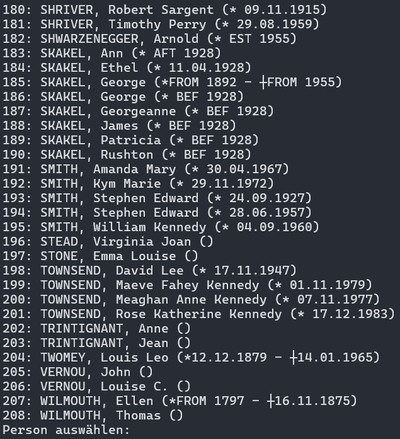
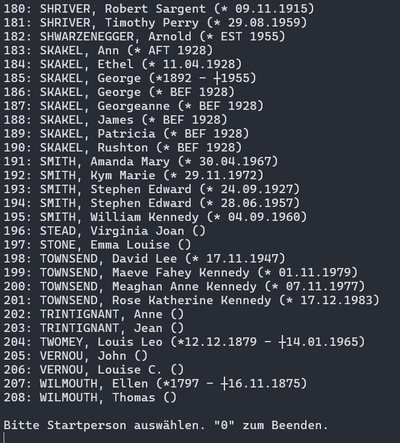
updated documentation.

diff --git a/README.en.md b/README.en.md
@@ -1,11 +1,18 @@
 # Introduction
 
+[![en](https://img.shields.io/badge/lang-en-red.svg)](README.en.md)
+[![de](https://img.shields.io/badge/lang-de-green.svg)](README.md)
+
+[![Licence](https://img.shields.io/github/license/LondonRain/KekuleHtml)](licence.txt)
+[![.NET](https://img.shields.io/badge/.NET-10.0-blueviolet)](https://dotnet.microsoft.com/en-us/download/dotnet/10.0)
+![Windows](https://img.shields.io/badge/Windows-10%2B-steelblue)
+[![Release](https://img.shields.io/github/v/release/LondonRain/KekuleHtml)](https://github.com/LondonRain/KekuleHtml/releases/latest)
+[![Last Commit](https://img.shields.io/github/last-commit/LondonRain/KekuleHtml)](https://github.com/LondonRain/KekuleHtml/commits/main)
+[![Downloads](https://img.shields.io/github/downloads/LondonRain/KekuleHtml/total)](https://github.com/LondonRain/KekuleHtml/releases/latest)
+
 <p align="center">
   <img src="img/KekuleHtmlBanner.png" />
 </p>
-
-[![en](https://img.shields.io/badge/lang-en-red.svg)](README.en.md)
-[![de](https://img.shields.io/badge/lang-de-green.svg)](README.md)
 
 1. [Description](#description)
 2. [Prerequisites](#prerequisites)
@@ -44,7 +51,21 @@ There is also a user interface. To use it, run `KekuleHtmlUi.exe`.
 
 ![User Interface](img/ui.png)
 
-You can select a GEDCOM file using “Browse...”. Alternatively, you can drag and drop the file (e.g., from Windows Explorer) onto the window to open it. Under “Select Starting Person...”, you can open a drop-down list to specify the starting person. Typing in the text field filters the drop-down list accordingly. You can use the checkbox to specify whether the file generated after clicking “Create HTML File” should open directly.
+You can select a GEDCOM file using “Browse...”. Alternatively, you can drag and drop the file (e.g., from Windows Explorer) onto the window to open it. Under “Select Starting Person...”, you can open a drop-down list to specify the starting person. Typing in the text field filters the drop-down list accordingly. Under “Generations” you can limit the output to a specified number of generations. You can use the checkbox to specify whether the file generated after clicking “Create HTML File” should open directly.
+
+### Parameters
+
+Both the console application and the application with a graphical user interface support the following command-line parameters.
+
+| Parameter (with example) | Description |
+| ------------------------ | ------------ |
+| kennedy.ged | A relative or absolute path to a GEDCOM file. This is then loaded directly in the user interface. However, it is usually more convenient to select the file yourself via the user interface. |
+| -maxGenerations 12 | Number of generations included in the output. 20 is the default value if this parameter is not set. The maximum is 63. |
+| -lang en | Forces the specified language. Currently, `de` (German) and `en` (English) are supported. If no language is specified via a parameter or if the language is unknown, the system language is used. |
+
+### Ahnenblatt
+
+For integration with the [Ahnenblatt](https://www.ahnenblatt.de/) software, see [here](AhnenblattPlugin/ReadmeAB.md).
 
 ## Features
 

diff --git a/README.md b/README.md
@@ -3,6 +3,13 @@
 [![en](https://img.shields.io/badge/lang-en-red.svg)](README.en.md)
 [![de](https://img.shields.io/badge/lang-de-green.svg)](README.md)
 
+[![Licence](https://img.shields.io/github/license/LondonRain/KekuleHtml)](licence.txt)
+[![.NET](https://img.shields.io/badge/.NET-10.0-blueviolet)](https://dotnet.microsoft.com/en-us/download/dotnet/10.0)
+![Windows](https://img.shields.io/badge/Windows-10%2B-steelblue)
+[![Release](https://img.shields.io/github/v/release/LondonRain/KekuleHtml)](https://github.com/LondonRain/KekuleHtml/releases/latest)
+[![Last Commit](https://img.shields.io/github/last-commit/LondonRain/KekuleHtml)](https://github.com/LondonRain/KekuleHtml/commits/main)
+[![Downloads](https://img.shields.io/github/downloads/LondonRain/KekuleHtml/total)](https://github.com/LondonRain/KekuleHtml/releases/latest)
+
 <p align="center">
   <img src="img/KekuleHtmlBanner.png" />
 </p>
@@ -44,7 +51,21 @@ Es gibt aber auch eine Bedienoberfläche. Dazu die `KekuleHtmlUi.exe` starten.
 
 ![Bedienoberfläche](img/ui.png)
 
-Über "Durchsuchen ..." kann eine GEDCOM-Datei ausgewählt werden. Alternativ lässt sich diese per Drag and Drop (etwas aus dem Windows Explorer heraus) auf das Fenster ziehen und so öffnen. Unter "Startperson wählen ..." lässt sich eine Auswahlliste öffnen, um diese festzulegen. Wenn man in das Textfeld tippt wird die Auswahlliste entsprechend gefiltert. Über ein Häkchen lässt sich festlegen, ob die nach einem Klick auf "HTML-Datei erstellen" generierte Datei direkt geöffnet werden soll.
+Über "Durchsuchen ..." kann eine GEDCOM-Datei ausgewählt werden. Alternativ lässt sich diese per Drag and Drop (etwas aus dem Windows Explorer heraus) auf das Fenster ziehen und so öffnen. Unter "Startperson wählen ..." lässt sich eine Auswahlliste öffnen, um diese festzulegen. Wenn man in das Textfeld tippt wird die Auswahlliste entsprechend gefiltert. Unter "Generationen" lässt sich die Ausgabe auf eine festgelegte Anzahl an Generationen begrenzen. Über ein Häkchen lässt sich festlegen, ob die nach einem Klick auf "HTML-Datei erstellen" generierte Datei direkt geöffnet werden soll.
+
+### Parameter
+
+Sowohl die Konsolenapplikation als auch die Anwendung mit Bedienoberfläche unterstützen folgende Kommandozeilenparameter.
+
+| Parameter (mit Beispiel) | Beschreibung |
+| ------------------------ | ------------ |
+| kennedy.ged | Ein relativer oder absoluter Pfad zu einer Gedcomdatei. In der Oberfläche wird diese dann direkt geladen. Üblicherweise ist es aber bequemer die Datei selber über die Oberfläche auszuwählen. |
+| -maxGenerations 12 | Anzahl an in die Ausgabe aufgenommenen Generationen. 20 ist der Standardwert, wenn dieser Parameter nicht gesetzt wird. Maximal sind 63 möglich. |
+| -lang en | Erzwingt die angegebene Sprache. Zurzeit werden `de` (Deutsch) und `en` (Englisch) unterstützt. Wird keine Sprache per Parameter angegeben oder ist diese unbekannt, wird die Systemsprache verwendet. |
+
+### Ahnenblatt
+
+Für eine Integration in die Software [Ahnenblatt](https://www.ahnenblatt.de/) siehe [hier](AhnenblattPlugin/ReadmeAB.md).
 
 ## Funktionen
 

diff --git a/AhnenblattPlugin/ReadmeAB.md b/AhnenblattPlugin/ReadmeAB.md
@@ -1,0 +1,60 @@
+## 🇩🇪 Plugin für Ahnenblatt
+
+Für [Ahnenblatt](https://www.ahnenblatt.de/) gibt es eine Integration als Wrapper-Plugin, so dass KekuleHtml direkt aus Ahnenblatt heraus gestartet werden kann.
+
+### Download
+
+Bei dem aktuellen [Release](https://github.com/LondonRain/KekuleHtml/releases/latest) kann direkt auch eine Plugin-Version für Ahnenblatt heruntergeladen werden.
+Im [Support Portal für Ahnenblatt](https://www.ahnenblattportal.de/viewtopic.php?t=10671) gibt es einen Thread, wo Fragen gestellt werden können.
+
+### Installation
+
+Die heruntergeladene Archivdatei mit der Plugin-Version muss - wie alle anderen Ahnenblatt-Plugins auch - entpackt werden und dann unter `%USERPROFILE%\Documents\Ahnenblatt\PlugIns` platziert werden. Die Ordnerstruktur sieht dann wie folgt aus:
+
+```
+Documents/
+├─ Ahnenblatt/
+│  ├─ PlugIns/
+│  │  ├─ KekuleHtml/
+│  │  │  ├─ ...
+│  │  │  ├─ KekuleHtmlUi.exe
+│  │  │  ├─ [und alle anderen Dateien aus dem Release-Archiv]
+│  │  ├─ KekuleHtml.abp
+```
+
+### Aufruf
+
+Wenn alles an der richtigen Stelle abgelegt wurde, erscheint "KekuleHtml" in Ahnenblatt im Menü unter "Extras/KekuleHtml/Start".
+
+![Plugin für Ahnenblatt](../img/ahnenblatt.png)
+
+---
+
+## 🇬🇧 Plugin for Ahnenblatt
+
+There is an integration for [Ahnenblatt](https://www.ahnenblatt.de/) in the form of a wrapper plugin, allowing KekuleHtml to be launched directly from within Ahnenblatt.
+
+### Download
+
+With the current [release](https://github.com/LondonRain/KekuleHtml/releases/latest), a plugin version for Ahnenblatt can also be downloaded directly.
+There is a thread on the [Ahnenblatt Support Portal](https://www.ahnenblattportal.de/viewtopic.php?t=10671) where you can ask questions.
+
+### Installation
+
+The downloaded archive file containing the plugin version must – like all other Ahnenblatt plugins – be extracted and then placed in `%USERPROFILE%\Documents\Ahnenblatt\PlugIns`. The folder structure will then look as follows:
+
+```
+Documents/
+├─ Ahnenblatt/
+│  ├─ PlugIns/
+│  │  ├─ KekuleHtml/
+│  │  │  ├─ ...
+│  │  │  ├─ KekuleHtmlUi.exe
+│  │  │  ├─ [and everything else from the published archive]
+│  │  ├─ KekuleHtml.abp
+```
+### How to use
+
+If everything has been placed in the correct location, "KekuleHtml" will appear in Ahnenblatt under "Tools/KekuleHtml/Start" in the menu.
+
+![Plugin for Ahnenblatt](../img/ahnenblatt.png)
